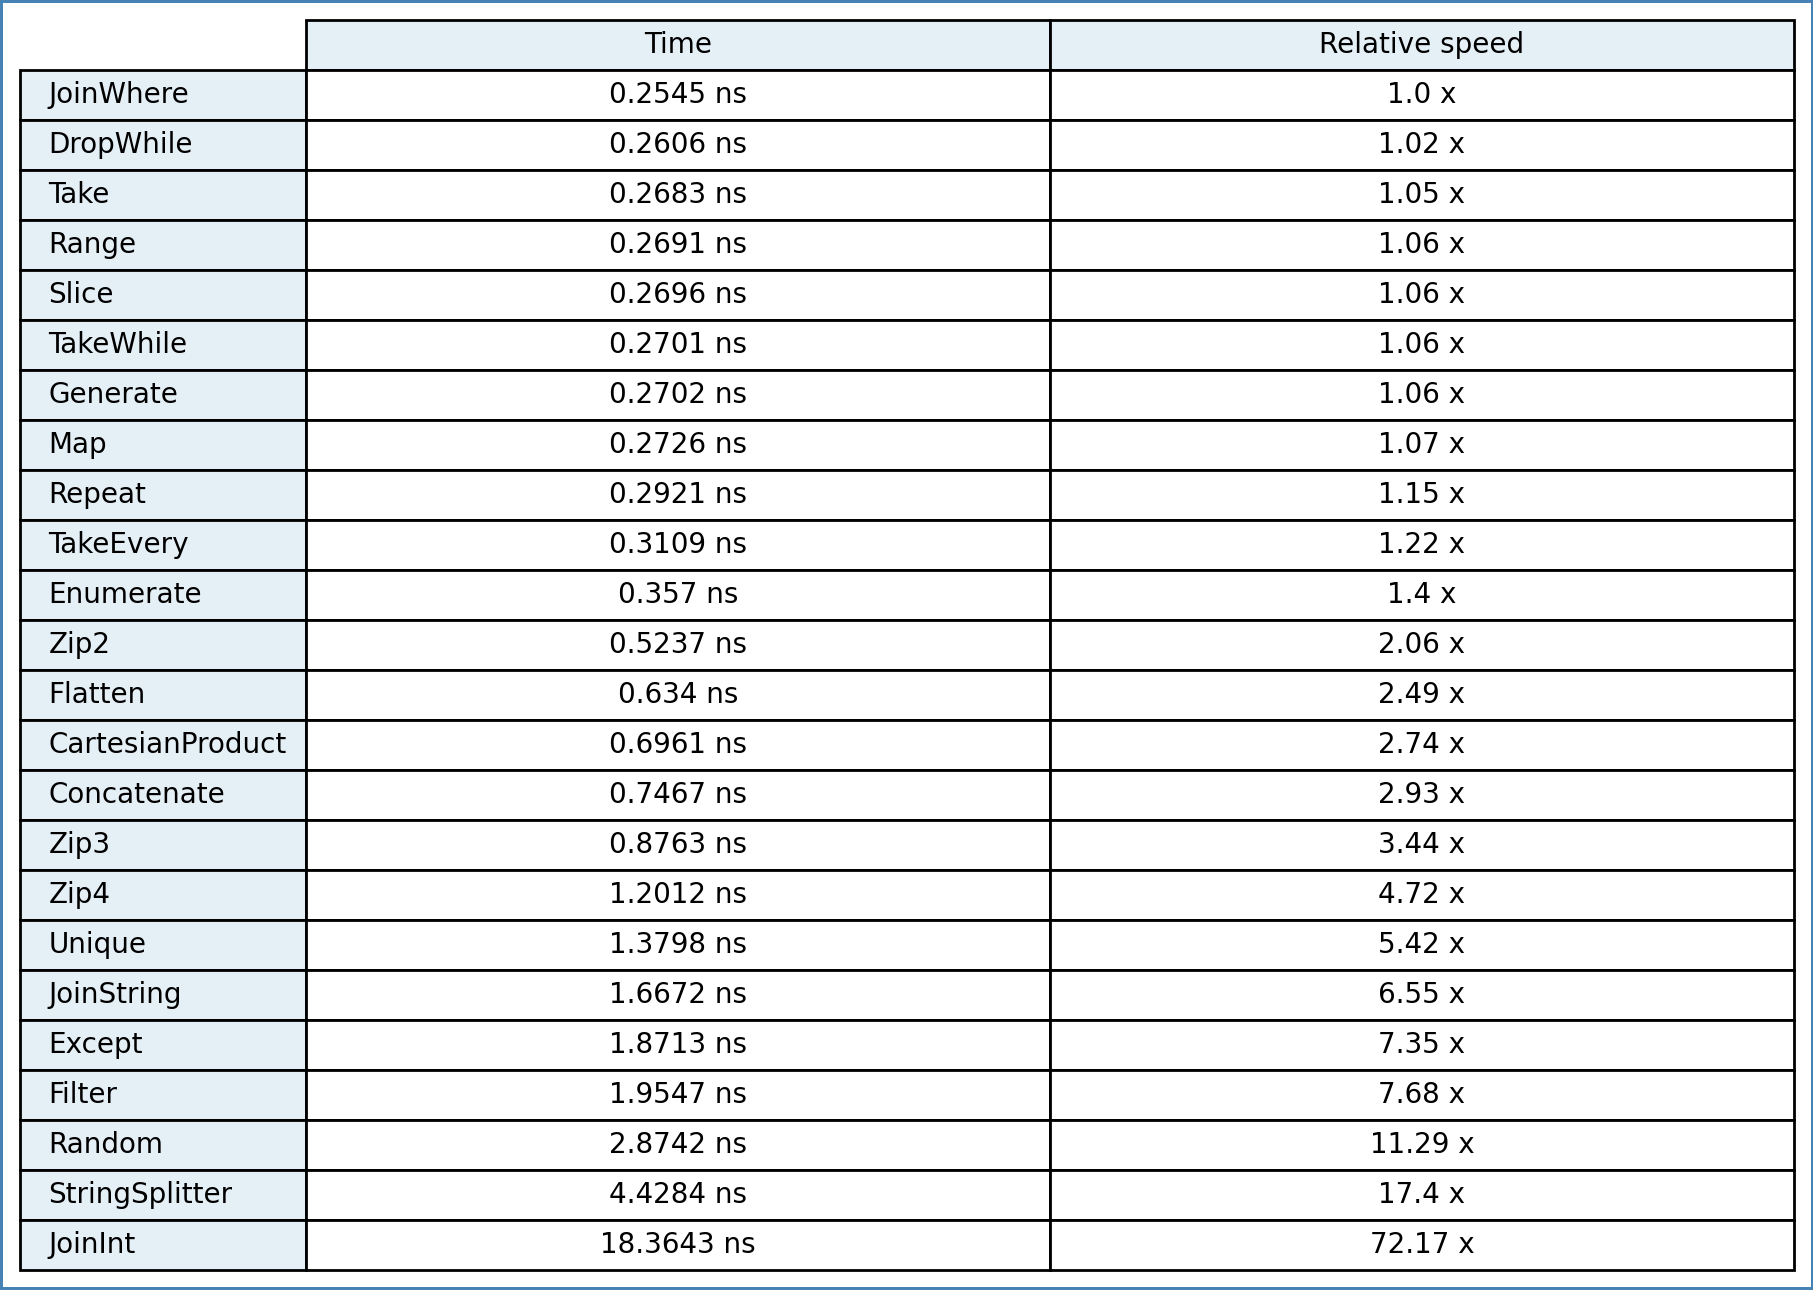
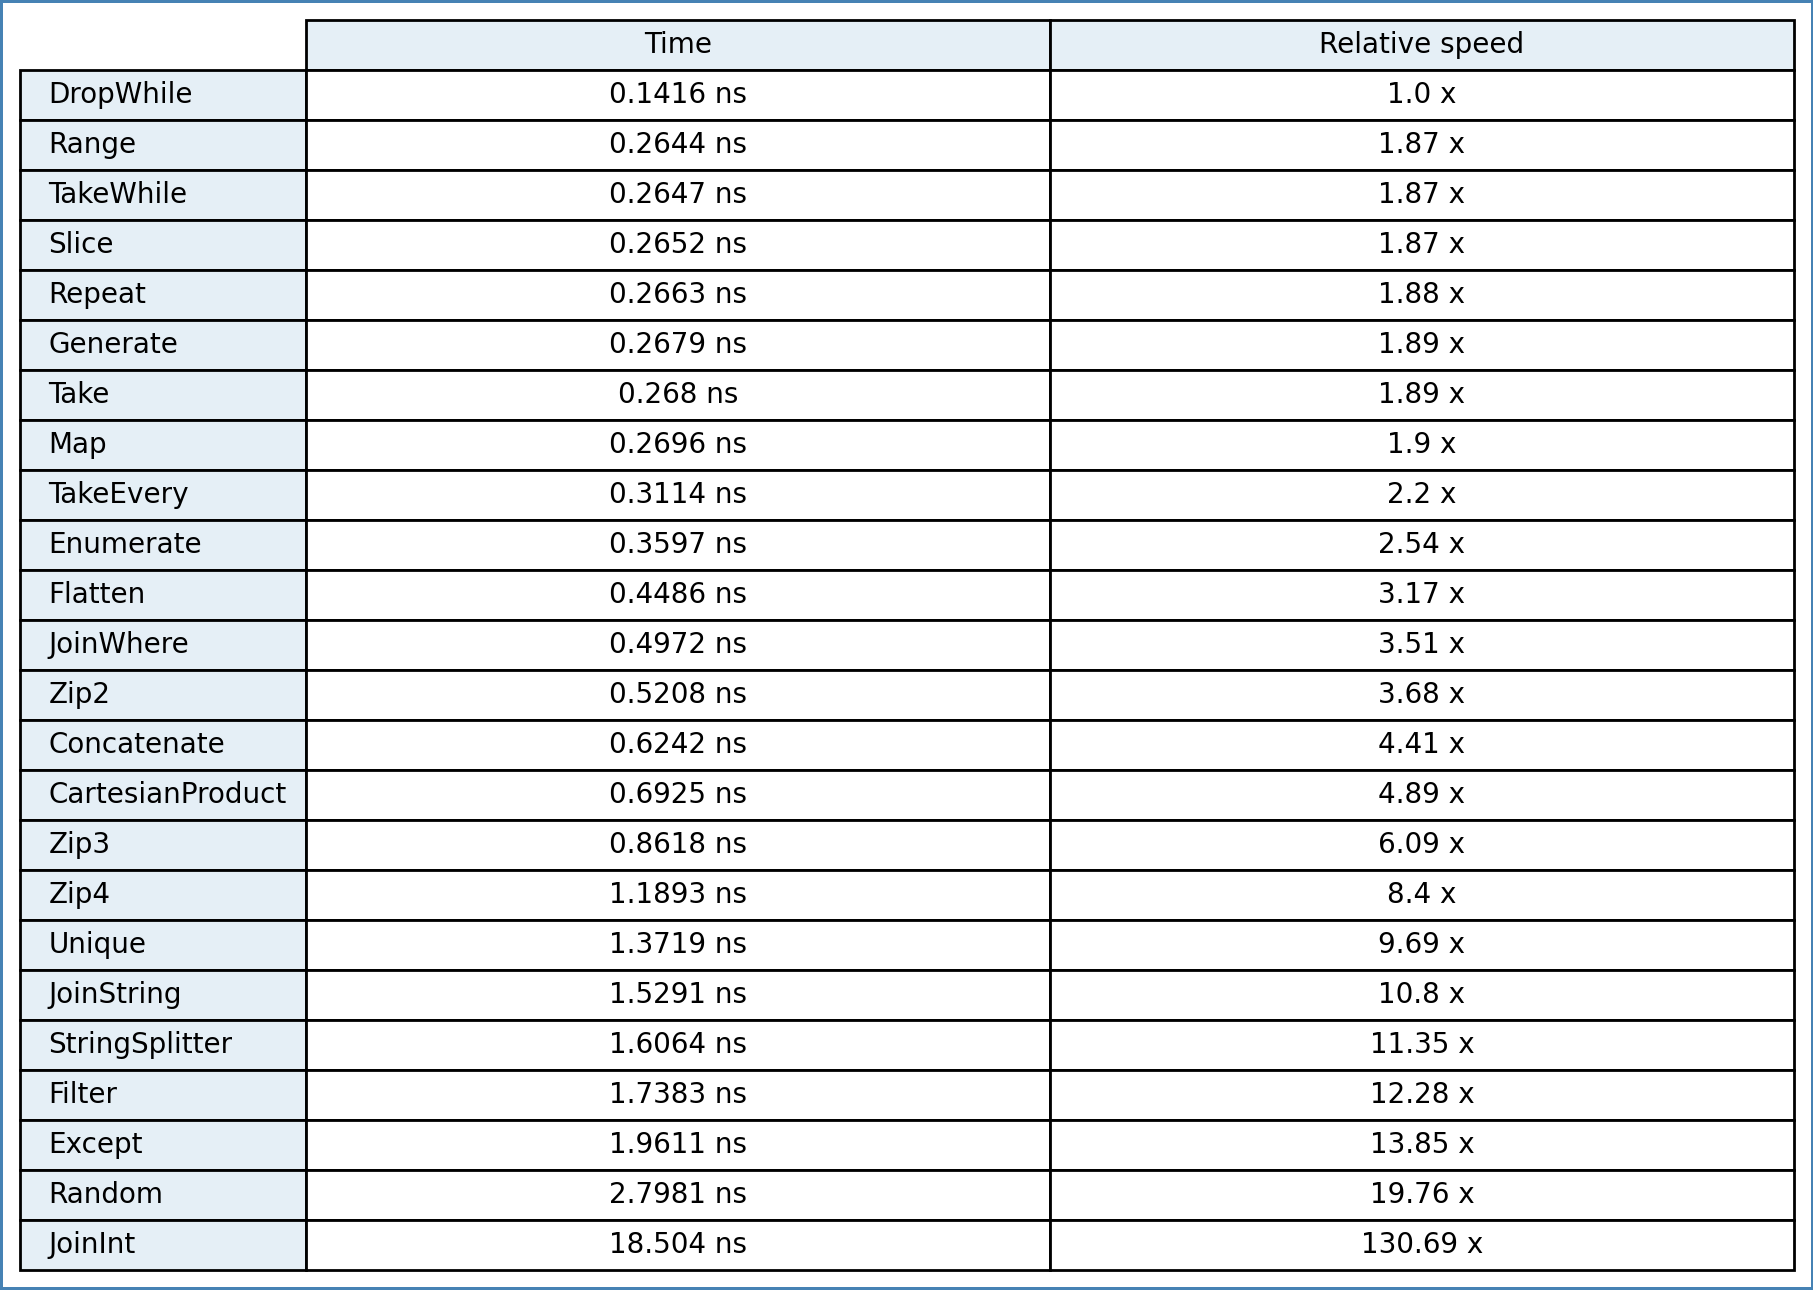
Added new benchmarks

diff --git a/bench/benchmarks-iterators.cpp b/bench/benchmarks-iterators.cpp
@@ -95,7 +95,7 @@ static void StringSplitter(benchmark::State& state) {
 #ifndef LZ_HAS_CXX_17
         // making non const causes: benchmark/benchmark.h:322:48: internal compiler error: in assign_temp,
         // at function.c:977
-        using StringType = const std::string&;
+        using StringType = fmt::string_view;
 #else
         using StringType = const std::string_view;
 #endif
